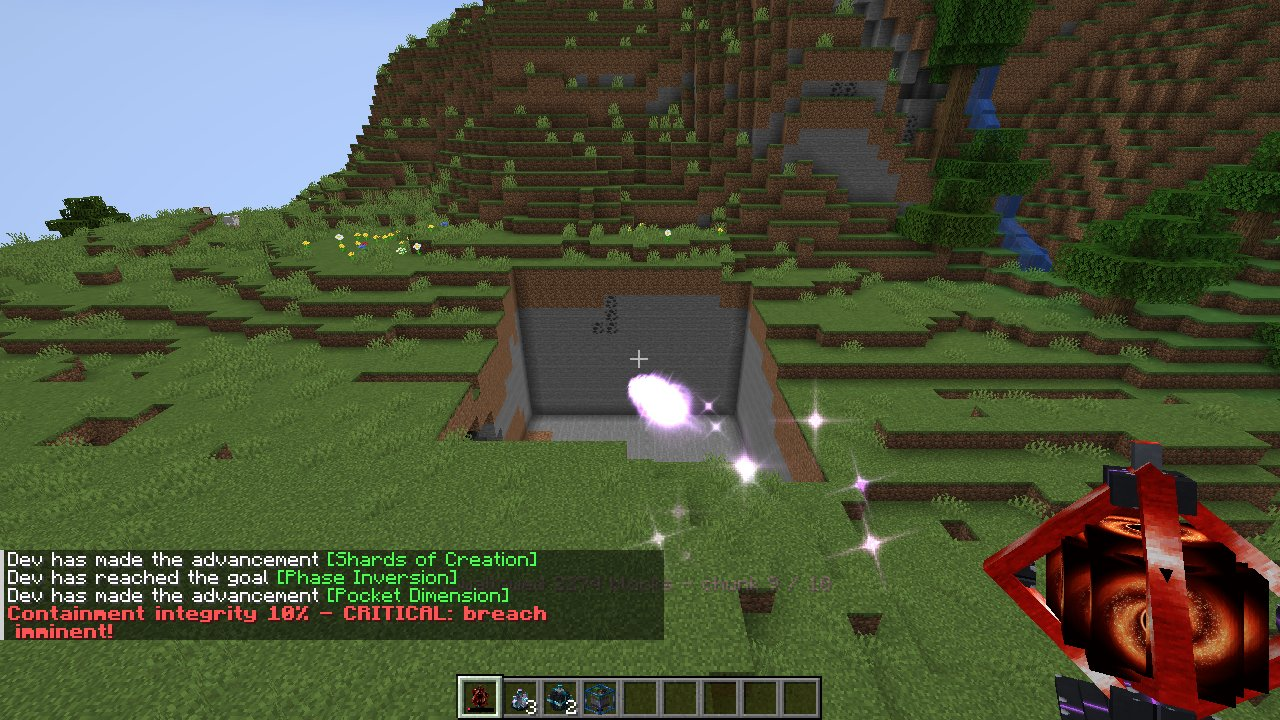
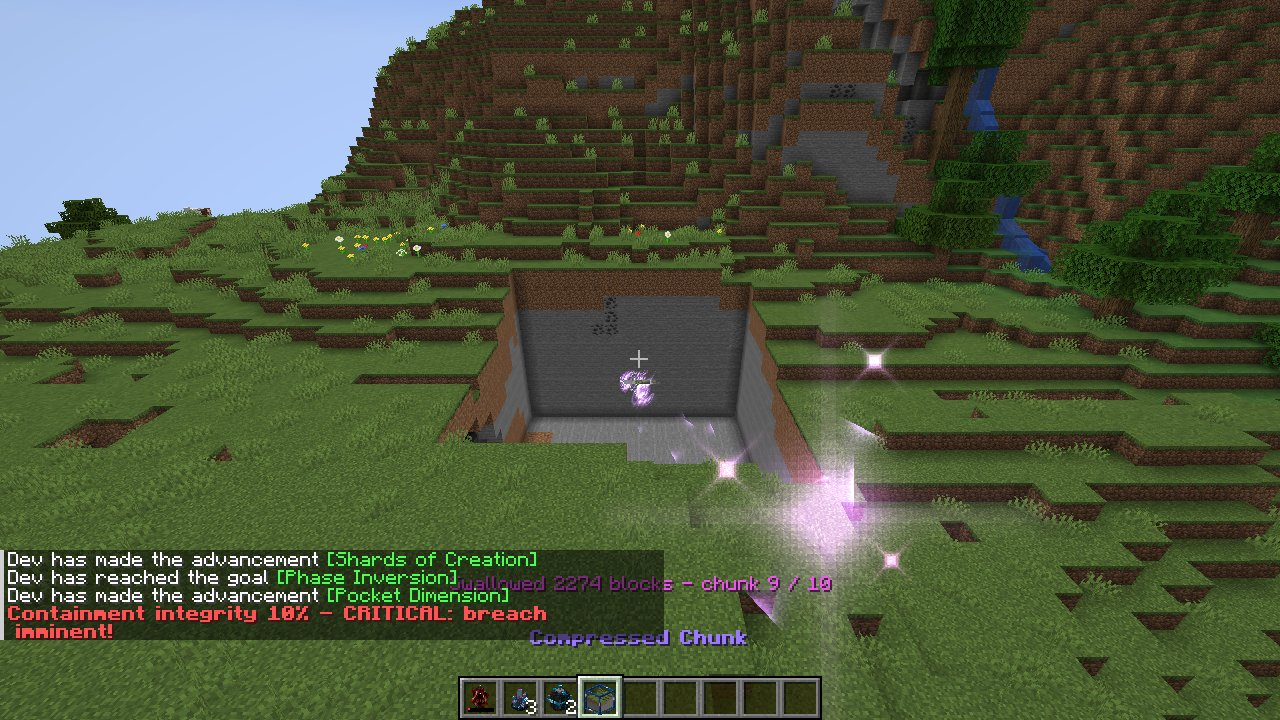
README: v2.1 gallery (shrink into the hand, 3D miniature, grow-in placement)
Claude-Session: https://claude.ai/code/session_01FiPZ5ihxhqkaFPBM2Bsopb

diff --git a/README.md b/README.md
@@ -13,10 +13,12 @@ Captured automatically by the CI client self-test (software rendering, default s
 
 | | |
 |---|---|
-| ![Chunk vortex](docs/screenshots/00-chunk-vortex.jpg) | ![Chunk hole](docs/screenshots/01-chunk-hole.jpg) |
-| *A 16×16×16 chunk spirals into the Pocket Black Hole* | *The perfect cube it leaves behind* |
-| ![Floating chunk](docs/screenshots/02-floating-chunk.jpg) | ![Living black hole](docs/screenshots/03-living-black-hole.jpg) |
-| *The Compressed Chunk unfolded again as a floating island above its own hole* | *Breach: the living black hole devours the hills, its lensing bending the world behind it* |
+| ![Chunk shrinking into the hand](docs/screenshots/00-chunk-shrink.jpg) | ![Chunk hole](docs/screenshots/01-chunk-hole.jpg) |
+| *The swallowed 16×16×16 chunk, real blocks and all, shrinks and flies into the Pocket Black Hole* | *The perfect cube it leaves behind* |
+| ![Compressed Chunk miniature](docs/screenshots/01b-chunk-miniature.png) | ![Chunk growing back](docs/screenshots/02-chunk-unfold.jpg) |
+| *The Compressed Chunk in the hotbar: a 3D miniature of the exact blocks inside (8× zoom)* | *Unfolding: the structure scales back up to full size as it lands* |
+| ![Chunk resting on top](docs/screenshots/02b-chunk-on-top.jpg) | ![Living black hole](docs/screenshots/03-living-black-hole.jpg) |
+| *Set down resting on top of the clicked block, beside the hole it came from* | *Breach: the living black hole devours the hills, its lensing bending the world behind it* |
 | ![Gravity pull](docs/screenshots/04-gravity-pull.jpg) | ![Core Fragment crash site](docs/screenshots/05-core-fragment.jpg) |
 | *Sprinting away against the pull* | *A Core Fragment crash site with its sky beam* |
 | ![Destabilizing](docs/screenshots/06-destabilizing.jpg) | ![Detonation](docs/screenshots/07-detonation.jpg) |
